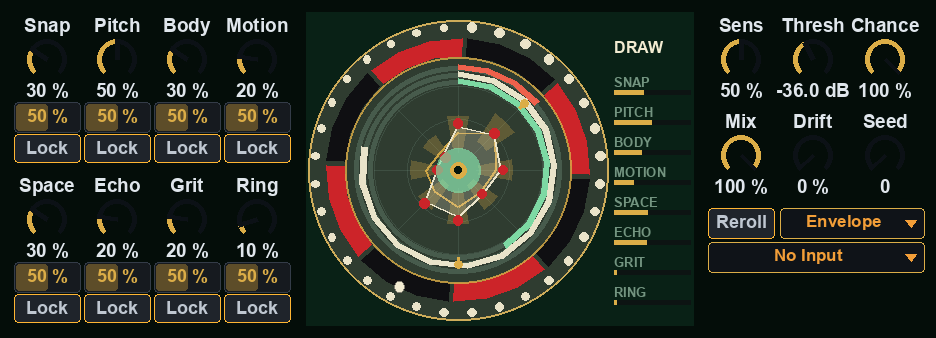
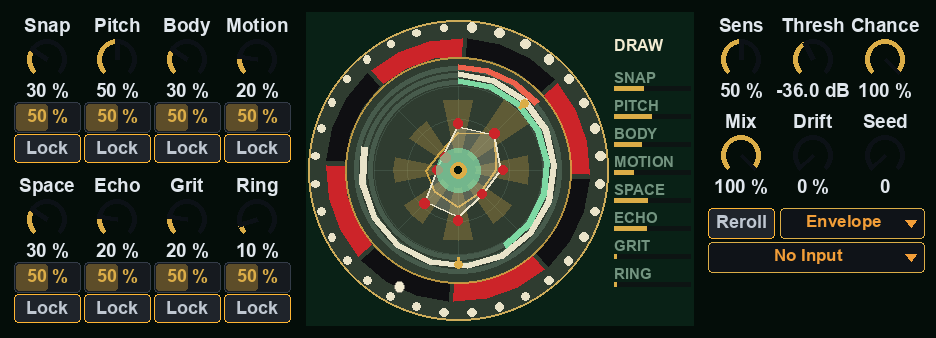
fix(deviate): roulette review findings

diff --git a/src/deviate_face_roulette.js b/src/deviate_face_roulette.js
@@ -36,7 +36,16 @@ function rlShown() {
     return out;
 }
 function rlWheelAt(t) { return 10 * 0.5 * (1 - Math.exp(-Math.max(0, t) / 500)); }
-function rlWheel(now) { return rlBase + rlWheelAt(Math.min(now - rlSpinT0, 4000) / 1); }
+function rlWheel(now) { return rlBase + rlWheelAt(Math.min(now - rlSpinT0, 4000)); }
+/** an angle wrapped into [0, 2 pi) */
+function rlWrap(a) { var t = Math.PI * 2; return a - Math.floor(a / t) * t; }
+/** the Range band: draws are uniform in Value +- Range, clamped to 0..1 */
+function rlBand(v, rg) { return [Math.max(0, v - rg), Math.min(1, v + rg)]; }
+/** true once a hit has happened (a rejected hit still counts: its pocket is the dark zero) */
+function rlHadHit(hits, serial, spinT0) { return hits > 0 || serial > 0 || spinT0 > -1e8; }
+/** the DSP pill rectangle: the free bottom-right corner under the legend, clear of the wheel disc */
+function rlPillRect(W, H, textW) { var w = textW + 10; return [W - 2 - w, H - 13, w, 12]; }
+function rlPillText() { return dvState.dsp.ready ? "" : (dvState.dsp.error ? "DSP failed" : "DSP loading..."); }
 
 function onFrame(t) {
     var now = rlNow(), cur = rlCurMetas(), i, changed = false;
@@ -44,7 +53,7 @@ function onFrame(t) {
     for (i = 0; i < 8; i++) if (Math.abs(cur[i] - rlTo[i]) > 0.01) changed = true;
     if (changed) { rlFrom = rlShown(); rlTo = cur; rlT0 = now; dvAnimate(160); }
     if (t.hitNew) {
-        rlBase = rlWheel(now) * 1;
+        rlBase = rlWrap(rlWheel(now));
         rlSpinT0 = now;
         rlFlash = 1;
         dvAnimate(2600);
@@ -77,7 +86,7 @@ function paint() {
     var W = mgraphics.size[0], H = mgraphics.size[1], i, a, now = rlNow(), g = dvTel.gate ? 1 : 0;
     var wheel = rlWheel(now), tSpin = now - rlSpinT0, pk = dvTel.pk, metas = rlShown();
     var serial = dvTel.serial > 0 ? dvTel.serial : 0, pocket = ((serial % 8) + 8) % 8;
-    var pal = RL;
+    var pal = RL, hadHit = rlHadHit(dvTel.hits, dvTel.serial, rlSpinT0);
 
     // background disc
     dvColor(pal.felt);
@@ -103,7 +112,7 @@ function paint() {
 
     // pocket ring (rotates)
     for (i = 0; i < 8; i++) {
-        var a0 = wheel + i * Math.PI / 4 - Math.PI / 2, zero = (g === 0 && i === pocket);
+        var a0 = wheel + i * Math.PI / 4 - Math.PI / 2, zero = (hadHit && g === 0 && i === pocket);
         dvRingSeg(RL_CX, RL_CY, 57, 66, a0, a0 + Math.PI / 4 - 0.04, 3);
         dvColor(zero ? pal.zero : (i % 2 ? pal.black : pal.red), 1);
         mgraphics.fill();
@@ -119,7 +128,7 @@ function paint() {
     for (i = 0; i < 3; i++) {
         r = rings[i];
         dvColor(pal.dim, 0.35); dvCircle(RL_CX, RL_CY, r[2] - 1.4); mgraphics.set_line_width(2.6); mgraphics.stroke();
-        var sw = rlLevel(r[0] / 1) * Math.PI * 2 * 0.98;
+        var sw = rlLevel(r[0]) * Math.PI * 2 * 0.98;
         if (sw > 0.05) { dvRingSeg(RL_CX, RL_CY, r[2] - 2.7, r[2], -Math.PI / 2, -Math.PI / 2 + sw, Math.ceil(sw / 0.4)); rlFill(r[1], 0.95); }
     }
 
@@ -137,7 +146,7 @@ function paint() {
         key = DV_META_KEYS[i];
         v = dvNorm("v_" + key); rg = dvNorm("r_" + key);
         a = -Math.PI / 2 + i * Math.PI / 4;
-        lo = Math.max(0, v - rg / 2); hi = Math.min(1, v + rg / 2);
+        lo = rlBand(v, rg)[0]; hi = rlBand(v, rg)[1];
         if (hi - lo > 0.005) { dvRingSeg(RL_CX, RL_CY, rad(lo), rad(hi), a - 0.2, a + 0.2, 2); rlFill(pal.brass, 0.28); }
         vpts.push(rlPt(a, rad(v)));
         dpts.push(rlPt(a, rad(metas[i] / 100)));
@@ -174,14 +183,19 @@ function paint() {
     dvColor(pal.black, 0.5); dvCircle(bp[0], bp[1], 2.6); mgraphics.set_line_width(0.6); mgraphics.stroke();
 
     // legend column: draw per meta
-    var lx = 154;
-    dvText(g ? "DRAW" : "ZERO", lx, 20, 8, g ? pal.ivory : pal.red, true);
-    dvText(dvTel.src ? "MIDI" : "", lx + 28, 20, 6, pal.dim, true);
+    var lx = 154, head = !hadHit ? "READY" : (g ? "DRAW" : "ZERO");
+    dvText(head, lx, 19, 8, !hadHit ? pal.dim : (g ? pal.ivory : pal.red), true);
+    if (dvTel.src) dvText("MIDI", W - 3 - dvTextW("MIDI", 7, true), 19, 7, pal.dim, true);
     for (i = 0; i < 8; i++) {
-        var ly = 31 + i * 15, m = metas[i] / 100;
-        dvText(RL_NAMES[i], lx, ly + 6, 6.5, pal.dim, true);
-        dvColor(pal.black, 0.7); mgraphics.rectangle(lx, ly + 8, 38, 2.4); mgraphics.fill();
-        dvColor(g ? pal.brass : pal.dim, 1); mgraphics.rectangle(lx, ly + 8, Math.max(1, 38 * m), 2.4); mgraphics.fill();
+        var ly = 28 + i * 14, m = metas[i] / 100;
+        dvText(RL_NAMES[i], lx, ly + 7, 7.5, pal.dim, true);
+        dvColor(pal.black, 0.7); mgraphics.rectangle(lx, ly + 9, 38, 2.4); mgraphics.fill();
+        dvColor(g ? pal.brass : pal.dim, 1); mgraphics.rectangle(lx, ly + 9, Math.max(1, 38 * m), 2.4); mgraphics.fill();
     }
-    dvDrawDspPill(W - 2, 1, 8, DVC);
+    var pt = rlPillText();
+    if (pt) {
+        var pr = rlPillRect(W, H, dvTextW(pt, 7, true));
+        dvPill(pr[0], pr[1], pr[2], pr[3], dvState.dsp.error ? DVC.coral : DVC.amber, 0.9);
+        dvText(pt, pr[0] + 5, pr[1] + 9, 7, [0.08, 0.08, 0.08, 1], true);
+    }
 }

diff --git a/tests/test_deviate_face_roulette.js b/tests/test_deviate_face_roulette.js
@@ -17,4 +17,34 @@ if (info) {
     const must = ["reroll", "mix", "chance", "sens"].concat(["snap", "pitch", "body", "motion", "space", "echo", "grit", "ring"].flatMap((k) => ["v_" + k, "r_" + k]));
     R.ok(must.every((k) => !(k in off)), "required controls are on the face");
 }
+
+// regression: pure helpers pulled out of the face script
+const vm = require("vm");
+const raw = fs.readFileSync(path.join(T.ROOT, "src", "deviate_face_roulette.js"), "utf8");
+function grab(name) {
+    const i = raw.indexOf("function " + name + "(");
+    let d = 0, j = raw.indexOf("{", i);
+    for (let k = j; k < raw.length; k++) { if (raw[k] === "{") d++; else if (raw[k] === "}" && --d === 0) return raw.slice(i, k + 1); }
+    return "";
+}
+const sb = {};
+vm.createContext(sb);
+vm.runInContext(["rlWrap", "rlBand", "rlHadHit", "rlPillRect"].map(grab).join("\n"), sb);
+const eq = (a, b) => Math.abs(a - b) < 1e-9;
+let b = sb.rlBand(0.5, 0.2);
+R.ok(eq(b[1] - b[0], 0.4), "range band width = 2*Range");
+b = sb.rlBand(0.1, 0.3);
+R.ok(eq(b[0], 0) && eq(b[1], 0.4), "range band clamped at 0");
+b = sb.rlBand(0.9, 0.3);
+R.ok(eq(b[0], 0.6) && eq(b[1], 1), "range band clamped at 1");
+R.ok(sb.rlHadHit(0, 0, -1e9) === false && sb.rlHadHit(1, 0, -1e9) && sb.rlHadHit(0, 3, -1e9) && sb.rlHadHit(0, 0, 100), "no ZERO before a hit");
+R.ok(/hadHit && g === 0/.test(src) && /"READY"/.test(src), "ZERO needs a hit; READY before");
+[-0.1, 0, 5, 7, 123.4, 6.2831853].forEach((a) => { const w = sb.rlWrap(a); R.ok(w >= 0 && w < Math.PI * 2, "rlBase wrap " + a); });
+R.ok(/rlBase = rlWrap\(/.test(src), "rlBase assigned wrapped");
+// DSP pill vs wheel disc (centre 76,79 r 75), widest text at a generous 0.62*size per char
+[14, 10].forEach((n) => {
+    const r = sb.rlPillRect(194, 157, 0.62 * 7 * n);
+    const cx = Math.max(r[0], Math.min(76, r[0] + r[2])), cy = Math.max(r[1], Math.min(79, r[1] + r[3]));
+    R.ok(Math.hypot(cx - 76, cy - 79) > 75 && r[0] + r[2] <= 194 && r[1] + r[3] <= 157, "DSP pill clear of wheel (" + n + " chars)");
+});
 R.done();
